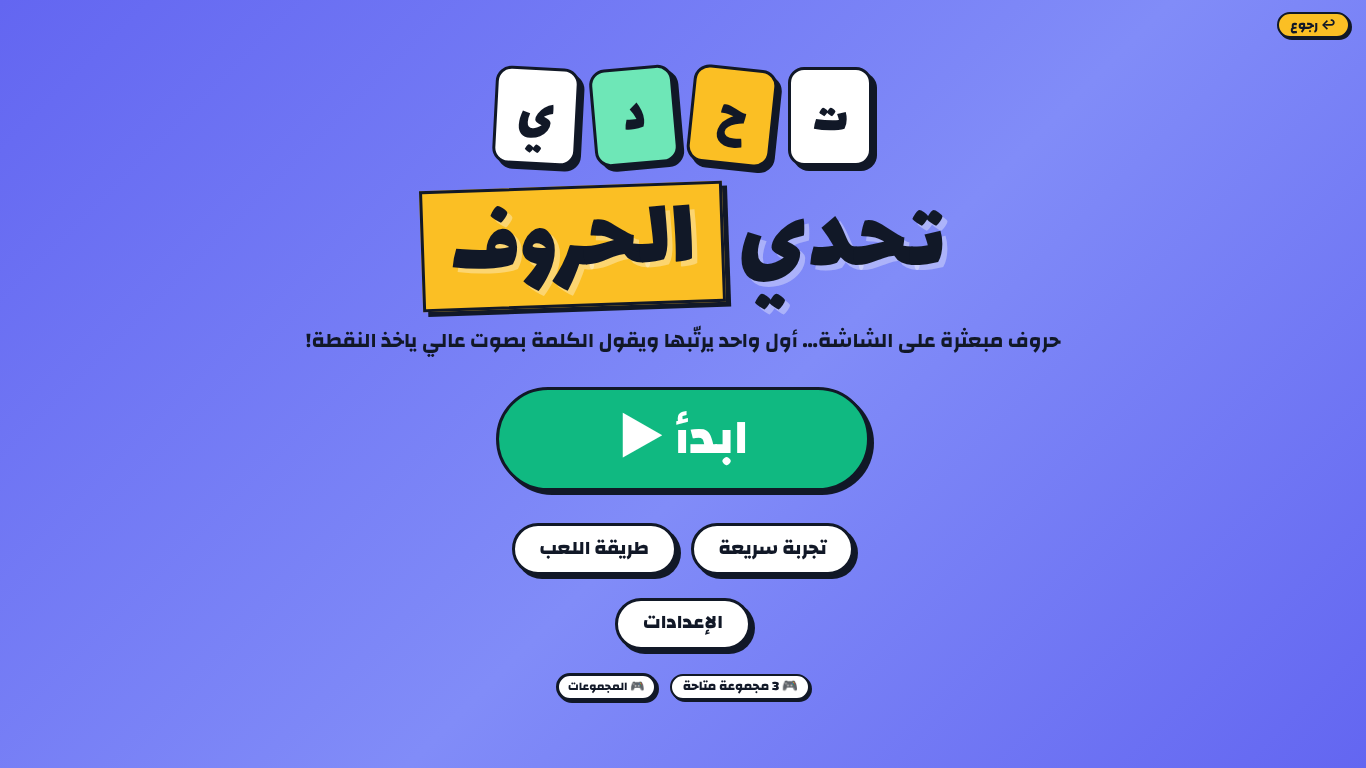
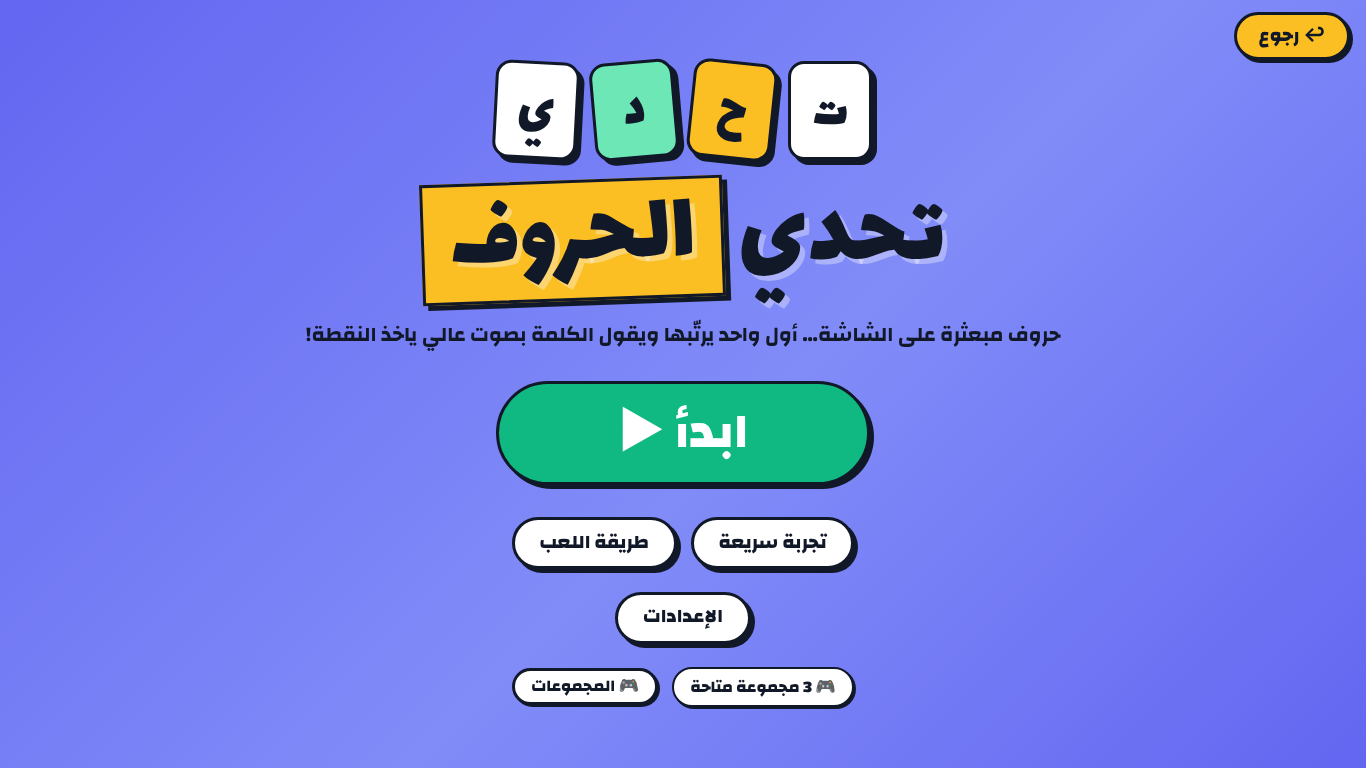
Bigger buttons and back button, overflow guard
Claude-Session: https://claude.ai/code/session_01UeWdaG6nw3L2LG2kzU8Csm

Changed region(s): [[0.2152, 0.0625, 0.7687, 0.5938], [0.369, 0.5938, 0.6457, 0.9375], [0.8917, 0.0, 1.0, 0.0938]]

diff --git a/js/majlis-pass.js b/js/majlis-pass.js
@@ -141,7 +141,7 @@
   /* ---------------- styles ---------------- */
   var css = document.createElement("style");
   css.textContent =
-    ".home-pill{display:inline-flex;align-items:center;gap:.3em;background:#fbbf24;color:#111827;border:2px solid #111827;border-radius:999px;padding:.1em .9em;font:800 clamp(12px,min(.95vw,1.8vh),20px)/1.5 Changa,'Segoe UI',Tahoma,sans-serif;white-space:nowrap;text-decoration:none;box-shadow:2px 2px 0 #111827}.home-pill:hover{background:#fde68a}" +
+    ".home-pill{display:inline-flex;align-items:center;gap:.3em;background:#fbbf24;color:#111827;border:2px solid #111827;border-radius:999px;padding:.1em .9em;font:800 clamp(14px,min(1.1vw,2vh),24px)/1.5 Changa,'Segoe UI',Tahoma,sans-serif;white-space:nowrap;text-decoration:none;box-shadow:2px 2px 0 #111827}.home-pill:hover{background:#fde68a}" +
     ".home-pill.fixed{position:fixed;top:clamp(8px,1.6vh,18px);right:clamp(8px,1.2vw,18px);z-index:2147482000}" +
     ".mp .gchips{display:flex;flex-wrap:wrap;gap:8px;justify-content:center}.mp .gc{border:2px solid #111827;border-radius:999px;background:#fff;color:#111827;text-decoration:none;font-weight:800;padding:.1em .9em;font-size:clamp(12px,min(1.1vw,2vh),20px)}.mp .gc.on{background:#fbbf24}" +
     ".mp .tiles{display:grid;grid-template-columns:repeat(4,1fr);gap:clamp(6px,1vw,14px)}" +
@@ -149,7 +149,7 @@
     ".mp .st b{font:400 clamp(20px,min(2.4vw,4.4vh),44px)/1 Lalezar,Changa,sans-serif}.mp .st small{font-weight:700;font-size:clamp(10px,min(.9vw,1.7vh),16px)}" +
     ".mp .st.done{background:#d1fae5}.mp .st.part{background:#fef3c7}.mp .st.lock{background:#f3f4f6;color:#6b7280}" +
     ".mp .pg{display:flex;align-items:center;justify-content:center;gap:10px;font-weight:800;font-size:clamp(12px,min(1.1vw,2vh),20px)}.mp .pg button{width:2.4em;height:2em;border:2px solid #111827;border-radius:999px;background:#fbbf24;font:800 1.2em/1 Changa,sans-serif;cursor:pointer;color:#111827}.mp .pg button:disabled{background:#e5e7eb;color:#9ca3af}" +
-    ".sets-pill{display:inline-flex;align-items:center;gap:.3em;background:#fff;color:#111827;border:2px solid #111827;border-radius:999px;padding:.1em .8em;font:800 clamp(12px,min(.95vw,1.8vh),20px)/1.5 Changa,'Segoe UI',Tahoma,sans-serif;white-space:nowrap;cursor:default;box-shadow:2px 2px 0 #111827}" +
+    ".sets-pill{display:inline-flex;align-items:center;gap:.3em;background:#fff;color:#111827;border:2px solid #111827;border-radius:999px;padding:.1em .8em;font:800 clamp(14px,min(1.1vw,2vh),24px)/1.5 Changa,'Segoe UI',Tahoma,sans-serif;white-space:nowrap;cursor:default;box-shadow:2px 2px 0 #111827}" +
     ".sets-pill.fixed{position:fixed;top:clamp(8px,1.6vh,18px);left:clamp(8px,1.2vw,18px);z-index:2147482000;pointer-events:none}" +
     ".mp-back{position:fixed;inset:0;z-index:2147483200;background:rgba(17,24,39,.72);display:grid;place-items:center;padding:clamp(8px,2vh,24px);direction:rtl;font-family:Changa,'Segoe UI',Tahoma,sans-serif;color:#111827;animation:mpfade .2s}" +
     "@keyframes mpfade{from{opacity:0}}@keyframes mppop{from{transform:scale(.92);opacity:0}}" +

diff --git a/css/majlis-theme.css b/css/majlis-theme.css
@@ -322,3 +322,9 @@ html, body, body * { -webkit-tap-highlight-color: transparent; }
 /* selected filter tabs in تحدي الحروف: yellow, never black */
 .g-hf .tabs button[aria-pressed="true"] { background: var(--m-yellow); color: #111827; border-color: #111827; }
 .g-hf .icon-btn, .g-hf .icon-btn.del { min-width: 28px; min-height: 28px; }
+
+/* v22: comfortable button sizes + back button */
+html, body { overflow-x: hidden; }
+body button:not(.team-dot):not(.tile):not(.plan), body .btn { min-height: 30px; }
+.home-pill { font-size: clamp(14px, min(1.4vw, 2.6vh), 30px) !important; padding: .35em 1.1em !important; min-height: 36px; border-width: 3px !important; box-shadow: 3px 3px 0 #111827 !important; }
+body .home-stack .row.small .btn, body .home-stack .row.small .sets-pill { font-size: clamp(15px, min(1.2vw, 2.2vh), 26px) !important; padding: .35em 1em !important; }

diff --git a/css/wsh.css b/css/wsh.css
@@ -291,3 +291,7 @@ html, body, body * { -webkit-tap-highlight-color: transparent; }
   body:not(.phone) .modes { gap: 6px; }
   body:not(.phone) .mode { padding: 6px; }
 }
+
+/* v22: category/option chips big enough to tap */
+.chk, .cat, .chip, .catbtn, .opts button, .cats button, .cats label { min-height: 34px; }
+@media (max-width: 520px) { .cats button, .cats label, .opts button { padding-block: .45em; font-size: 14px; } }
